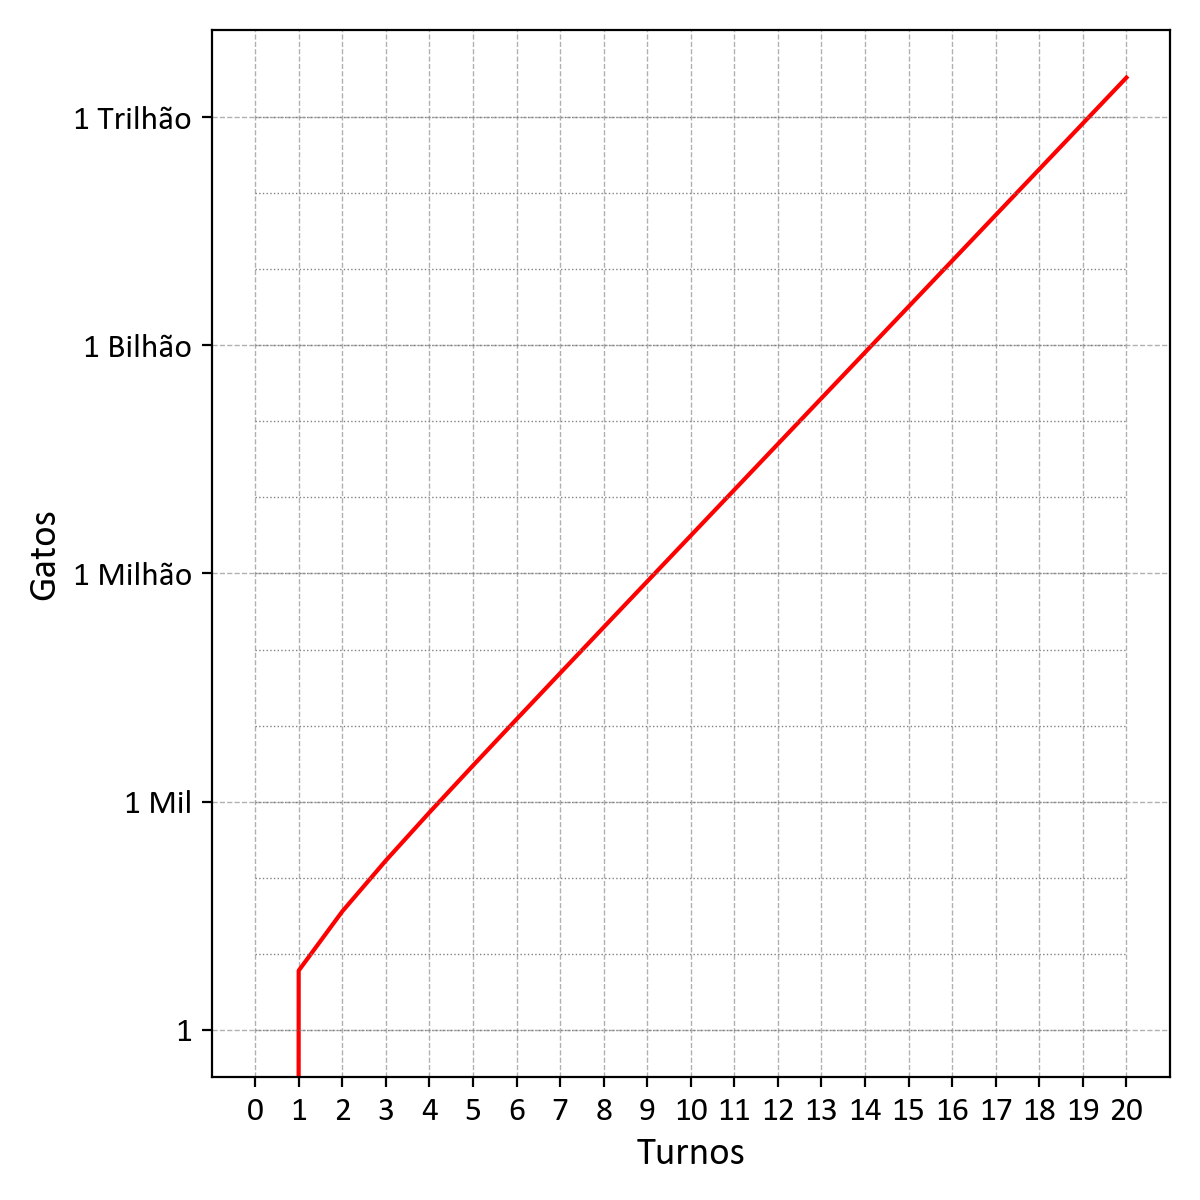
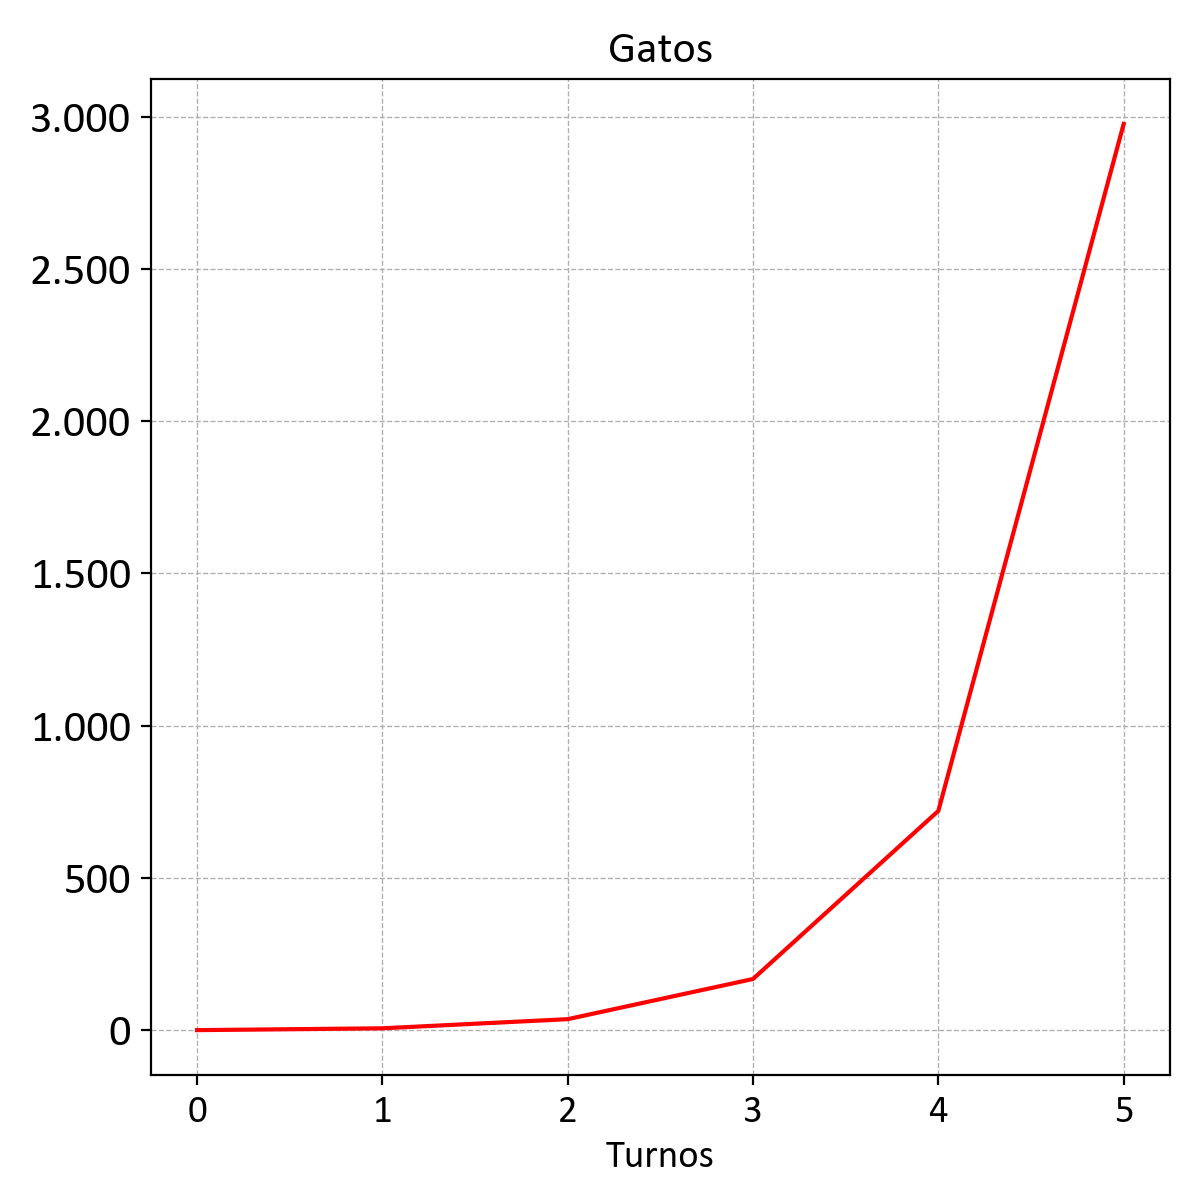
go back to non-log graph

diff --git a/ocelote helm/main.py b/ocelote helm/main.py
@@ -1,4 +1,3 @@
-import math
 from matplotlib.ticker import FuncFormatter
 import matplotlib.pyplot as plt
 
@@ -36,54 +35,23 @@ formatter = FuncFormatter(thousand_separator)
 def plot_graphs(data, name, color):
     plt.figure(figsize=(6, 6))
     plt.plot(data, color=color)
+    plt.title(name, fontname='Calibri', fontsize=16)
     plt.xlabel('Turnos', fontname='Calibri', fontsize=14)
-    plt.ylabel(name, fontname='Calibri', fontsize=14)
     plt.grid(True, which='both', linestyle='--', linewidth=0.5)
-    plt.xticks(range(len(data)), fontname='Calibri', fontsize=12)
-    plt.yscale('log')
-
-    ticks = [
-        1,
-        1000,
-        1000000,
-        1000000000,
-        1000000000000,
-    ]
-    ticks_labels = [
-        '1',
-        '1 Mil',
-        '1 Milhão',
-        '1 Bilhão',
-        '1 Trilhão',
-    ]
-
-    max_value = max(data)
-    while max_value < ticks[-1]:
-        ticks.pop()
-        ticks_labels.pop()
-
-    hlines = [10**i for i in range(int(math.log10(max_value)) + 1)]
-
-    plt.gca().set_yticks(ticks)
-    plt.gca().set_yticklabels(ticks_labels, fontname='Calibri', fontsize=12)
-
-    for y in hlines:
-        plt.hlines(y, xmin=0, xmax=len(data)-1, colors='gray',
-                   linestyles='dotted', linewidth=0.5)
-
+    plt.xticks(range(len(data)), fontname='Calibri', fontsize=14)
+    plt.yticks(fontname='Calibri', fontsize=16)
+    plt.gca().yaxis.set_major_formatter(formatter)
+    # plt.yscale('log')
     plt.tight_layout()
     plt.savefig(f'ocelote helm/{name}_over_turns.png',
                 dpi=200, transparent=True)
     plt.close()
 
-
 if __name__ == "__main__":
-    ocelots_list, cats_list = simulate_turns(20)
+    ocelots_list, cats_list = simulate_turns(5)
 
     for i in range(len(ocelots_list)):
         print(f'Turno {i}: Ocelotes: {ocelots_list[i]}, Gatos: {cats_list[i]}')
 
     plot_graphs(ocelots_list, 'Ocelotes', 'green')
     plot_graphs(cats_list, 'Gatos', 'red')
-
-# Se vc vender todos os ocelotes gerados até o turno 26 pelo preço médio da carta no card kingdom - 44,99 USD, te faltarão 5.300.000 USD para comprar a Wizard of the Coast
